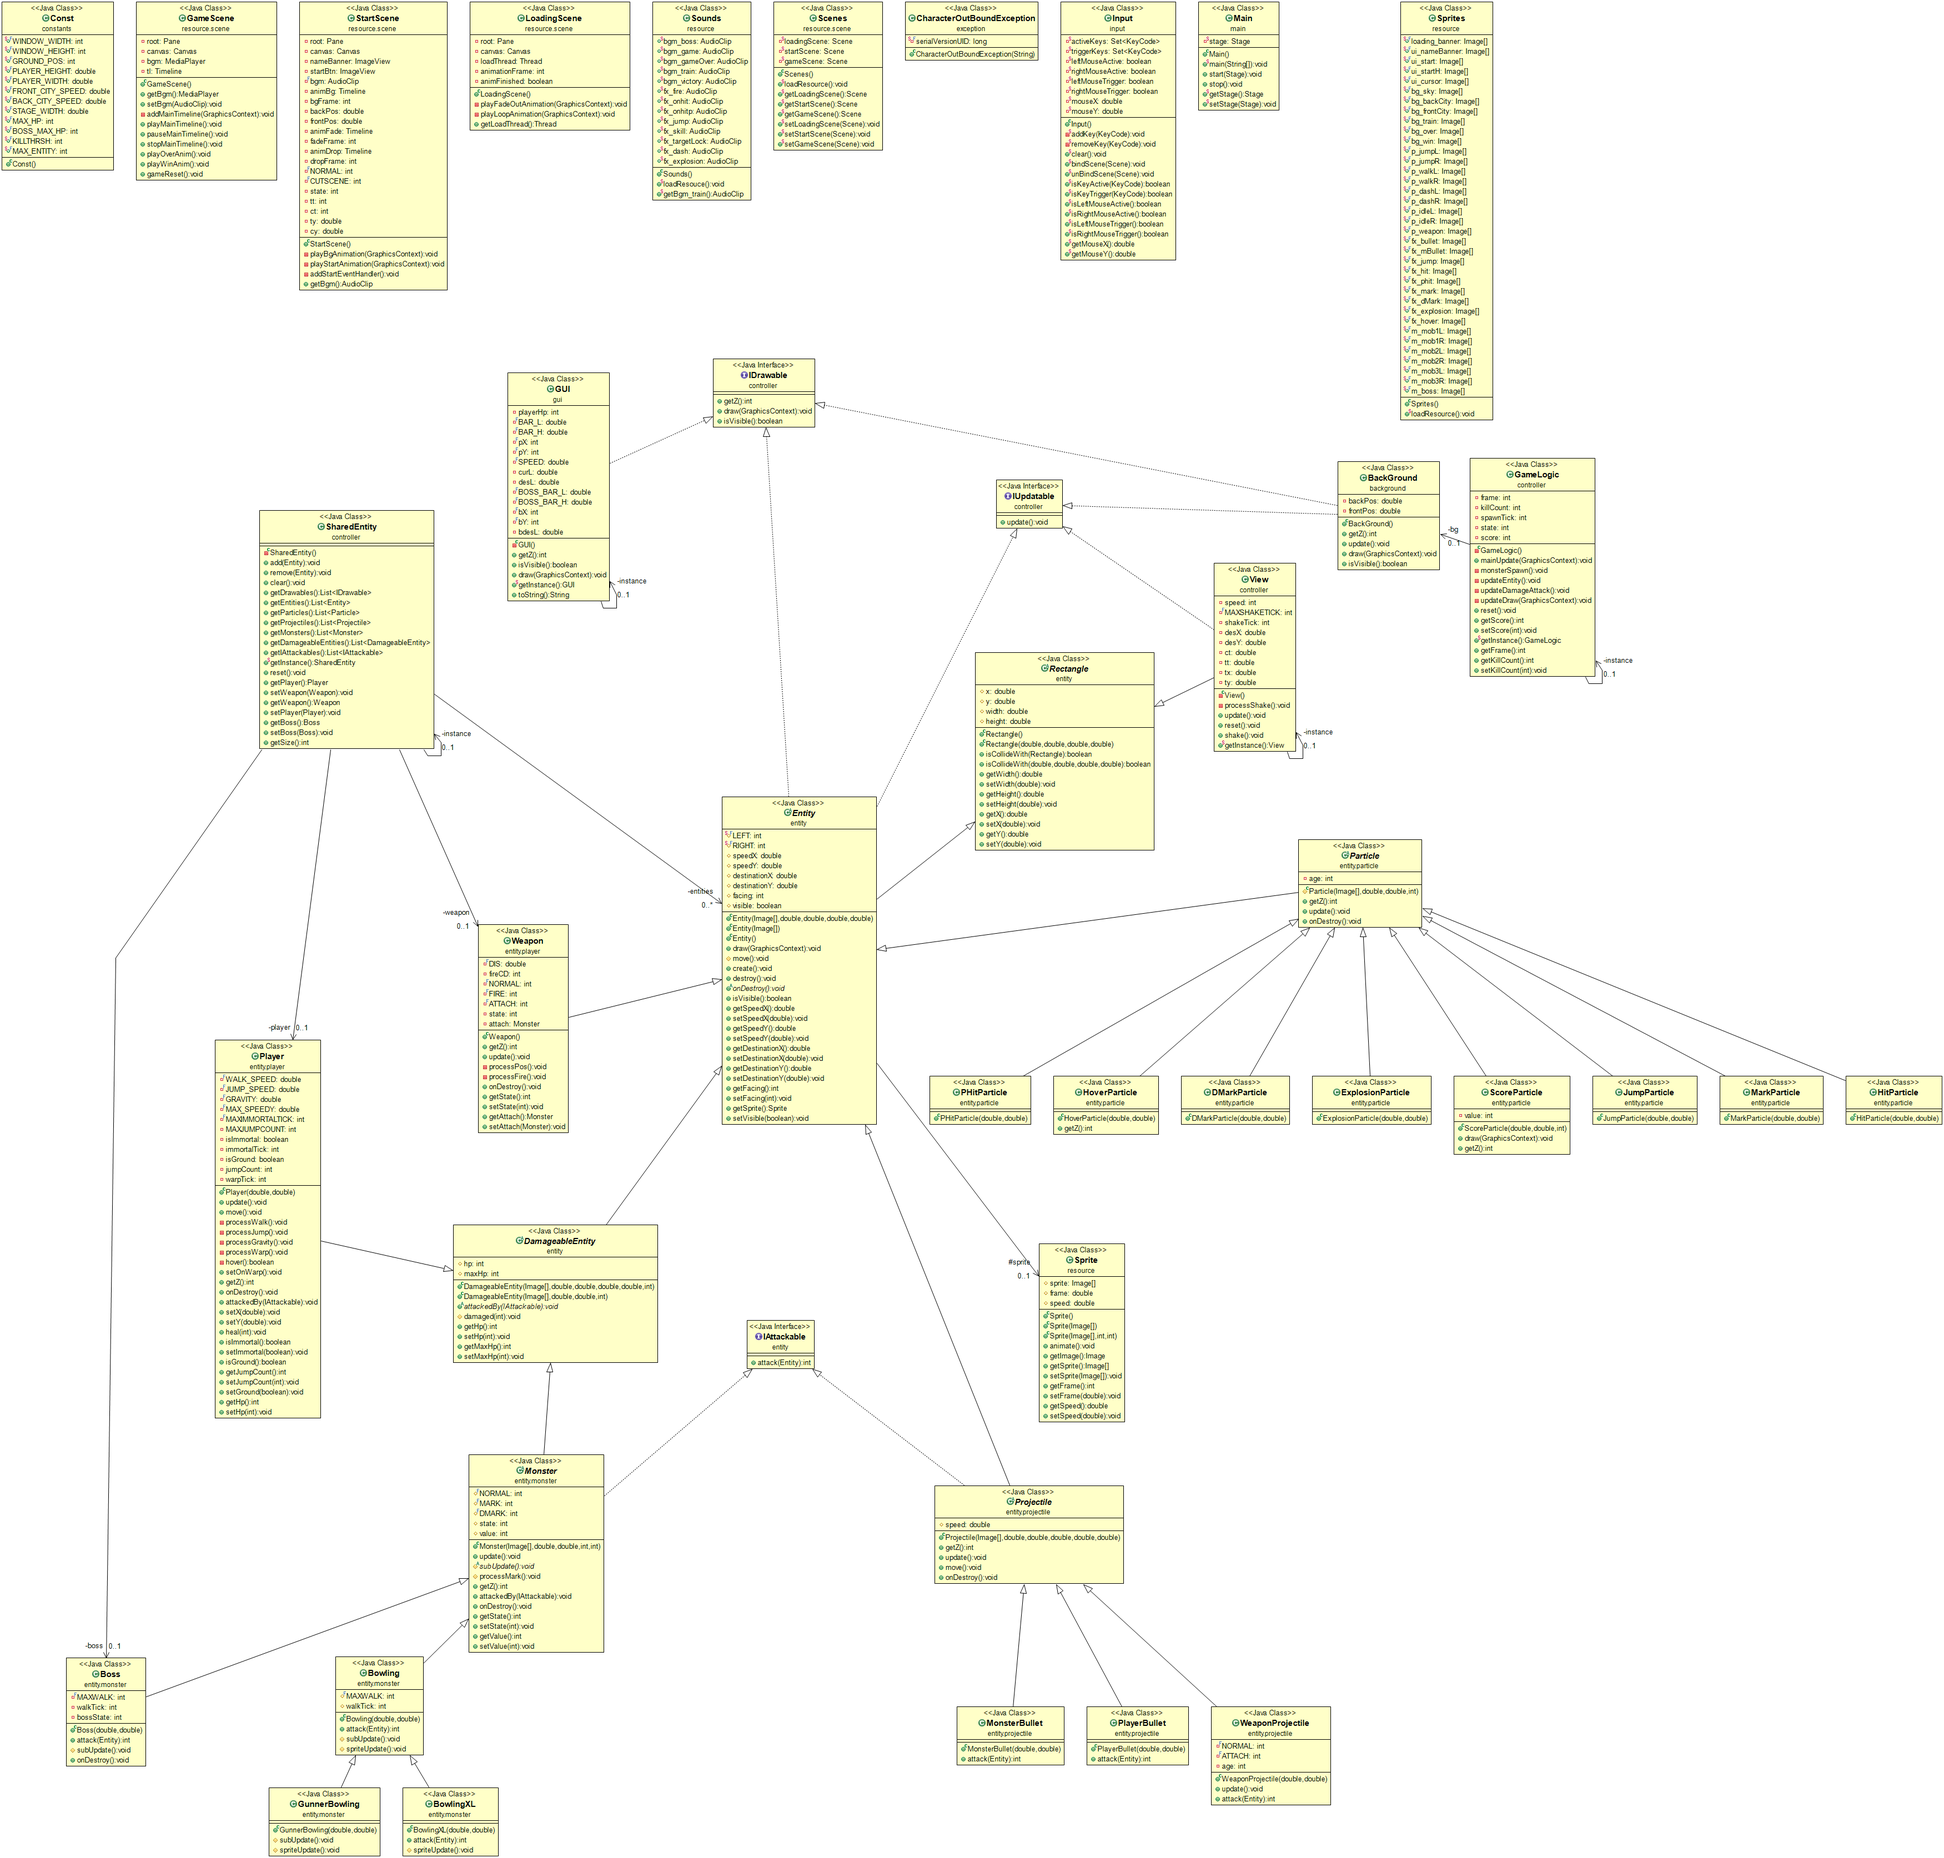
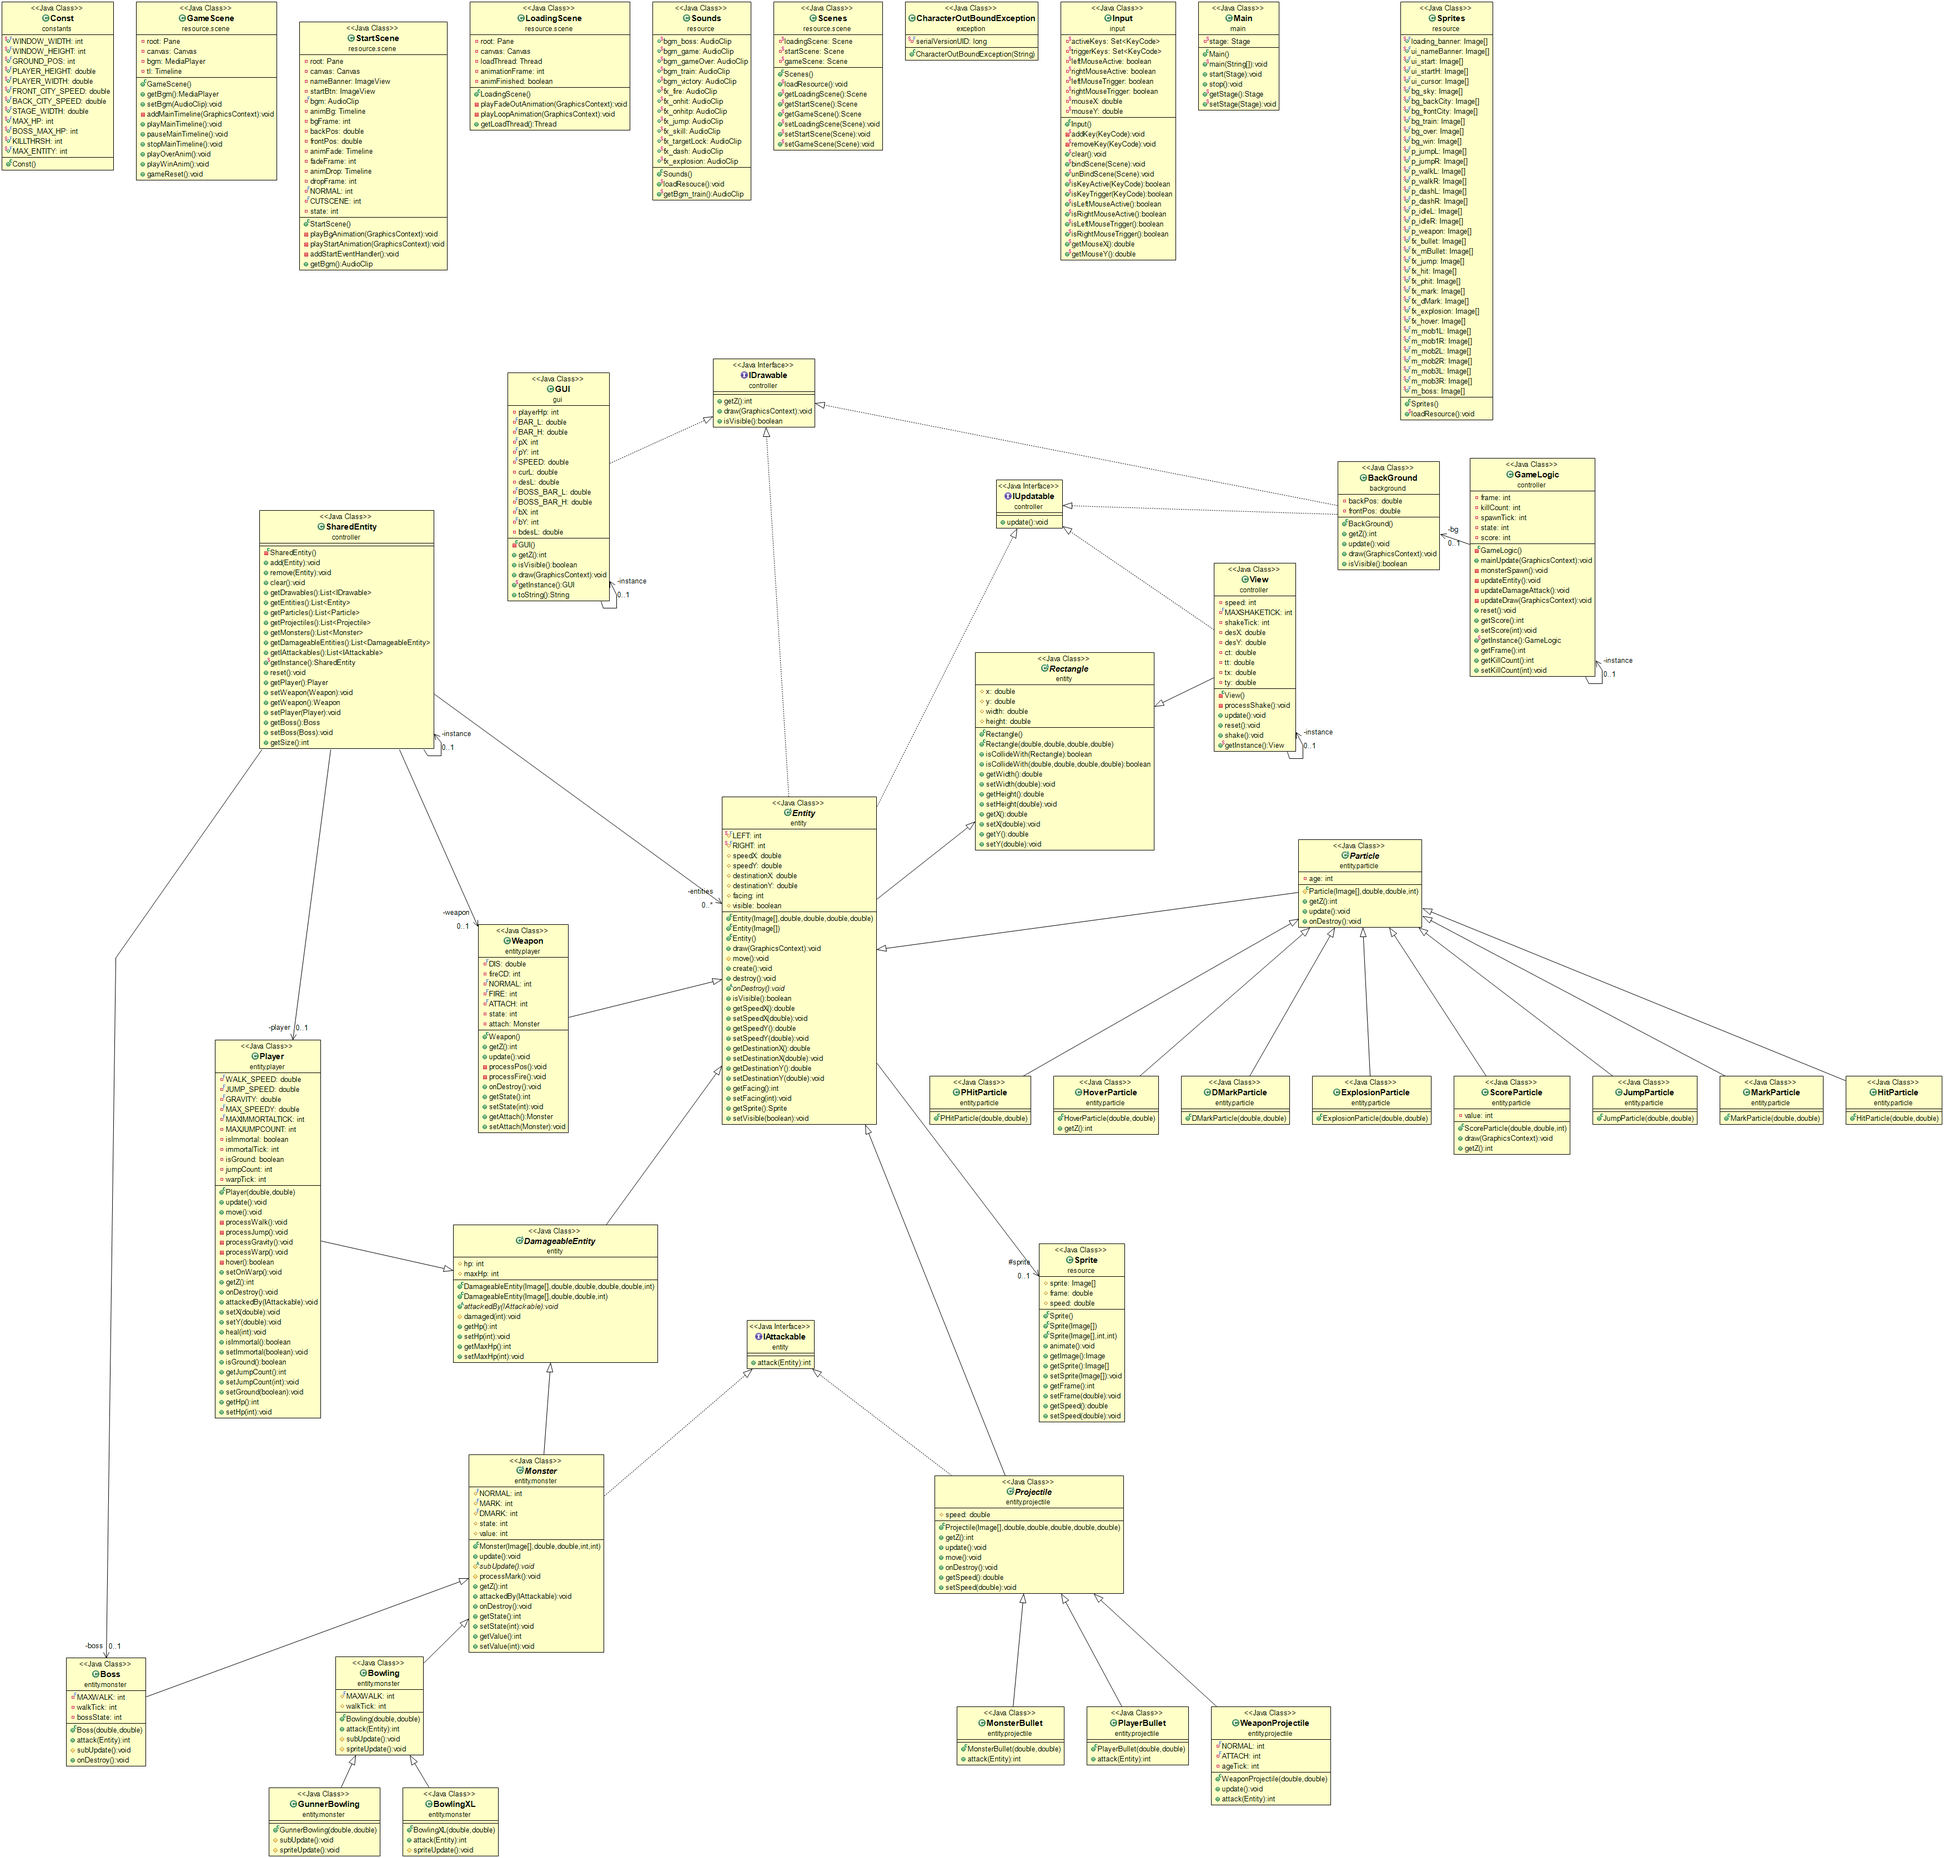
Final touch

Changed region(s): [[0.467, 0.7768, 0.5915, 0.87], [0.1557, 0.0, 0.2491, 0.1554]]

diff --git a/src/entity/monster/Boss.java b/src/entity/monster/Boss.java
@@ -35,7 +35,9 @@ public class Boss extends Monster {
 		if (bossState == 0) {
 
 			if(walkTick > 200 && walkTick%20 == 1) {
-				(new MonsterBullet(x,y)).create();
+				MonsterBullet mb = new MonsterBullet(x,y);
+				mb.setSpeed(18);
+				mb.create();
 			}
 			
 			if(walkTick > 0) {
@@ -55,7 +57,7 @@ public class Boss extends Monster {
 			}
 		} else if (bossState == 1) {
 			
-			if ((walkTick == 220 || walkTick == 290) && SharedEntity.getInstance().getMonsters().size() < 12) {
+			if ((walkTick == 220 || walkTick == 290 || walkTick == 240 || walkTick == 200) && SharedEntity.getInstance().getMonsters().size() < 12) {
 				double r = Math.random();
 				if(r < 0.9) {
 					(new Bowling(x,y)).create();
@@ -82,6 +84,7 @@ public class Boss extends Monster {
 	@Override
 	public void onDestroy() {
 		GameLogic.getInstance().setKillCount(GameLogic.getInstance().getKillCount() + 1);
+		((GameScene)Scenes.getGameScene()).stopMainTimeline();
 		((GameScene) Scenes.getGameScene()).playWinAnim();
 	}
 	

diff --git a/src/entity/projectile/WeaponProjectile.java b/src/entity/projectile/WeaponProjectile.java
@@ -13,25 +13,25 @@ public class WeaponProjectile extends Projectile{
 	private final int NORMAL = 0;
 	private final int ATTACH = 2;
 	
-	private int age = 120;
+	private int ageTick = 120;
 	
 	public WeaponProjectile(double x, double y) {
 		super(Sprites.p_weapon, x, y, 
 				Input.getMouseX()  + View.getInstance().getX(), 
 				Input.getMouseY()  + View.getInstance().getY(), 30.);
-				width = 30;
-				height = 30;
+				width = 180; //from 100 to 180 for presentation purpose
+				height = 180;
 	}
 	
 	@Override
 	public void update() {
 		move();
-		if(age <= 0) {
+		if(ageTick <= 0) {
 			SharedEntity.getInstance().getWeapon().setState(NORMAL);
 			SharedEntity.getInstance().getWeapon().setVisible(true);
 			this.destroy();
 		} else {
-			age -= 1;
+			ageTick -= 1;
 		}
 	}
 	

diff --git a/src/controller/GameLogic.java b/src/controller/GameLogic.java
@@ -19,7 +19,6 @@ import entity.projectile.MonsterBullet;
 import entity.projectile.Projectile;
 import gui.GUI;
 import javafx.scene.canvas.GraphicsContext;
-import javafx.scene.media.AudioClip;
 import javafx.scene.media.MediaPlayer;
 import resource.Sounds;
 import resource.scene.Scenes;
@@ -65,7 +64,7 @@ public class GameLogic {
 				} else {
 					(new GunnerBowling(sx, sy)).create();
 				}
-				spawnTick = 60 + (int)(Math.random()*300);
+				spawnTick = 60 + (int)(Math.random()*200);
 			} else if (spawnTick <= 0) {
 				spawnTick = 1200;
 			} else {

diff --git a/src/input/Input.java b/src/input/Input.java
@@ -73,6 +73,15 @@ public class Input {
 	public static void unBindScene(Scene scene) {
 		scene.setOnKeyPressed(null);
 		scene.setOnKeyReleased(null);
+		scene.removeEventFilter(MouseEvent.ANY, new EventHandler<MouseEvent>() {
+			@Override
+			public void handle(MouseEvent e) {
+				mouseX = e.getX();
+				mouseY = e.getY();
+			}
+		});
+		scene.setOnMousePressed(null);
+		scene.setOnMouseReleased(null);
 	}
 	
 	public static boolean isKeyActive(KeyCode code) {

diff --git a/src/resource/Sounds.java b/src/resource/Sounds.java
@@ -32,6 +32,10 @@ public class Sounds {
 		fx_targetLock = new AudioClip(ClassLoader.getSystemResource("sounds/targetLock.mp3").toString());
 		fx_dash = new AudioClip(ClassLoader.getSystemResource("sounds/dash.mp3").toString());
 		fx_explosion = new AudioClip(ClassLoader.getSystemResource("sounds/explosion.mp3").toString());
+		
+		fx_fire.setVolume(0.5);
+		fx_onhit.setVolume(20);
+		fx_explosion.setVolume(20);
 	}
 
 

diff --git a/src/constants/Const.java b/src/constants/Const.java
@@ -13,7 +13,7 @@ public class Const {
 	public static final double BACK_CITY_SPEED = 2;
 	public static final double STAGE_WIDTH = 2400;
 	
-	public static final int MAX_HP = 1500;
+	public static final int MAX_HP = 1000;
 	public static final int BOSS_MAX_HP = 50000;
 	
 	public static final int KILLTHRSH = 25;

diff --git a/src/resource/scene/LoadingScene.java b/src/resource/scene/LoadingScene.java
@@ -23,7 +23,7 @@ public class LoadingScene extends Scene {
 	
 
 	private int animationFrame = 0;
-	private boolean animFinished = false;//TODO for debugging
+	private boolean animFinished = false;
 	
 	public LoadingScene() {
 		super(new Pane());

diff --git a/src/entity/projectile/Projectile.java b/src/entity/projectile/Projectile.java
@@ -43,4 +43,14 @@ public abstract class Projectile extends Entity implements IAttackable{
 		
 	}
 
+	public double getSpeed() {
+		return speed;
+	}
+
+	public void setSpeed(double speed) {
+		this.speed = speed;
+	}
+	
+	
+
 }

diff --git a/src/resource/scene/StartScene.java b/src/resource/scene/StartScene.java
@@ -101,11 +101,6 @@ public class StartScene extends Scene {
 	
 	}
 	
-	
-	private int tt = 20, ct= 0;
-	private double ty, cy = 0;
-	
-	
 	private void playStartAnimation(GraphicsContext gc) {
 		fadeFrame = 0;
 		

diff --git a/src/entity/particle/JumpParticle.java b/src/entity/particle/JumpParticle.java
@@ -5,7 +5,7 @@ import resource.Sprites;
 
 public class JumpParticle extends Particle{
 	public JumpParticle(double x, double y) {
-		super(Sprites.fx_jump,x,y,3);
+		super(Sprites.fx_jump,x,y,5);
 	}
 	
 }
